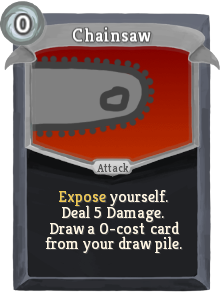
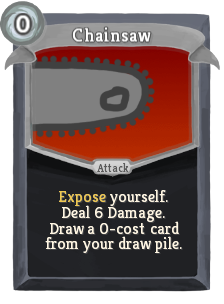
v0.2.18

Changed region(s): [[0.4062, 0.6809, 0.75, 0.7401]]

diff --git a/index.html b/index.html
@@ -80,7 +80,7 @@
         <td>Assasinate</td>
         <td><img src="card-images/Assasinate.png"></td>
         <td><img src="card-images/AssasinatePlus.png"></td>
-        <td>Rare</td>
+        <td>Uncommon</td>
         <td>Attack</td>
         <td>3</td>
         <td>Deal 38(46) Silent Damage. Lose 1 Strength 3 times.</td>
@@ -193,7 +193,7 @@
         <td>Common</td>
         <td>Attack</td>
         <td>0</td>
-        <td>Expose yourself. Deal 5 Damage. Draw a 0-cost card from your draw pile. (If there are none, shuffle your discard into your draw pile.)</td>
+        <td>Expose yourself. Deal 6 Damage. Draw a 0-cost card from your draw pile. (If there are none, shuffle your discard into your draw pile.)</td>
       </tr>
       
       <tr>
@@ -357,6 +357,16 @@
       </tr>
       
       <tr>
+        <td>Firepower</td>
+        <td><img src="card-images/Firepower.png"></td>
+        <td><img src="card-images/FirepowerPlus.png"></td>
+        <td>Uncommon</td>
+        <td>Power</td>
+        <td>2(1)</td>
+        <td>Every time you gain Burning, remove that effect and apply that much Burning to ALL enemies.</td>
+      </tr>
+      
+      <tr>
         <td>Firewall</td>
         <td><img src="card-images/Firewall.png"></td>
         <td><img src="card-images/FirewallPlus.png"></td>
@@ -370,10 +380,10 @@
         <td>First Aid Kit</td>
         <td><img src="card-images/FirstAidKit.png"></td>
         <td><img src="card-images/FirstAidKitPlus.png"></td>
-        <td>Common</td>
+        <td>Uncommon</td>
         <td>Skill</td>
         <td>1</td>
-        <td>(Retain.) Heal ALL HP lost this turn.</td>
+        <td>Heal ALL HP lost this turn. Shuffle 2 (Upgraded) Painkillers into your draw pile.</td>
       </tr>
       
       <tr>
@@ -534,6 +544,16 @@
         <td>Attack</td>
         <td>2</td>
         <td>Deal 8(10) Damage. Crit: !C! % Target loses 6(8) HP. Lose 25 Precision.</td>
+      </tr>
+      
+      <tr>
+        <td>Hand Claws</td>
+        <td><img src="card-images/HandClaws.png"></td>
+        <td><img src="card-images/HandClawsPlus.png"></td>
+        <td>Uncommon</td>
+        <td>Skill</td>
+        <td>2</td>
+        <td>Lose 6 HP. Add 5(7) Shivs to your hand. (Affected by damage modifiers.)</td>
       </tr>
       
       <tr>
@@ -757,6 +777,16 @@
       </tr>
       
       <tr>
+        <td>Saw Blade</td>
+        <td><img src="card-images/SawBlade.png"></td>
+        <td><img src="card-images/SawBladePlus.png"></td>
+        <td>Uncommon</td>
+        <td>Attack</td>
+        <td>0</td>
+        <td>Expose yourself. Deal 4 Damage to ALL enemies. Draw (1 card. Draw) a 0-cost card from your draw pile.</td>
+      </tr>
+      
+      <tr>
         <td>Silver Blood</td>
         <td><img src="card-images/SilverBlood.png"></td>
         <td><img src="card-images/SilverBloodPlus.png"></td>
@@ -823,7 +853,7 @@
         <td>Uncommon</td>
         <td>Skill</td>
         <td>1</td>
-        <td>Gain 4 Poison. Gain 4(6) Metalicize.</td>
+        <td>Lose 6 HP. Gain 3(5) Metalicize.</td>
       </tr>
       
       <tr>
